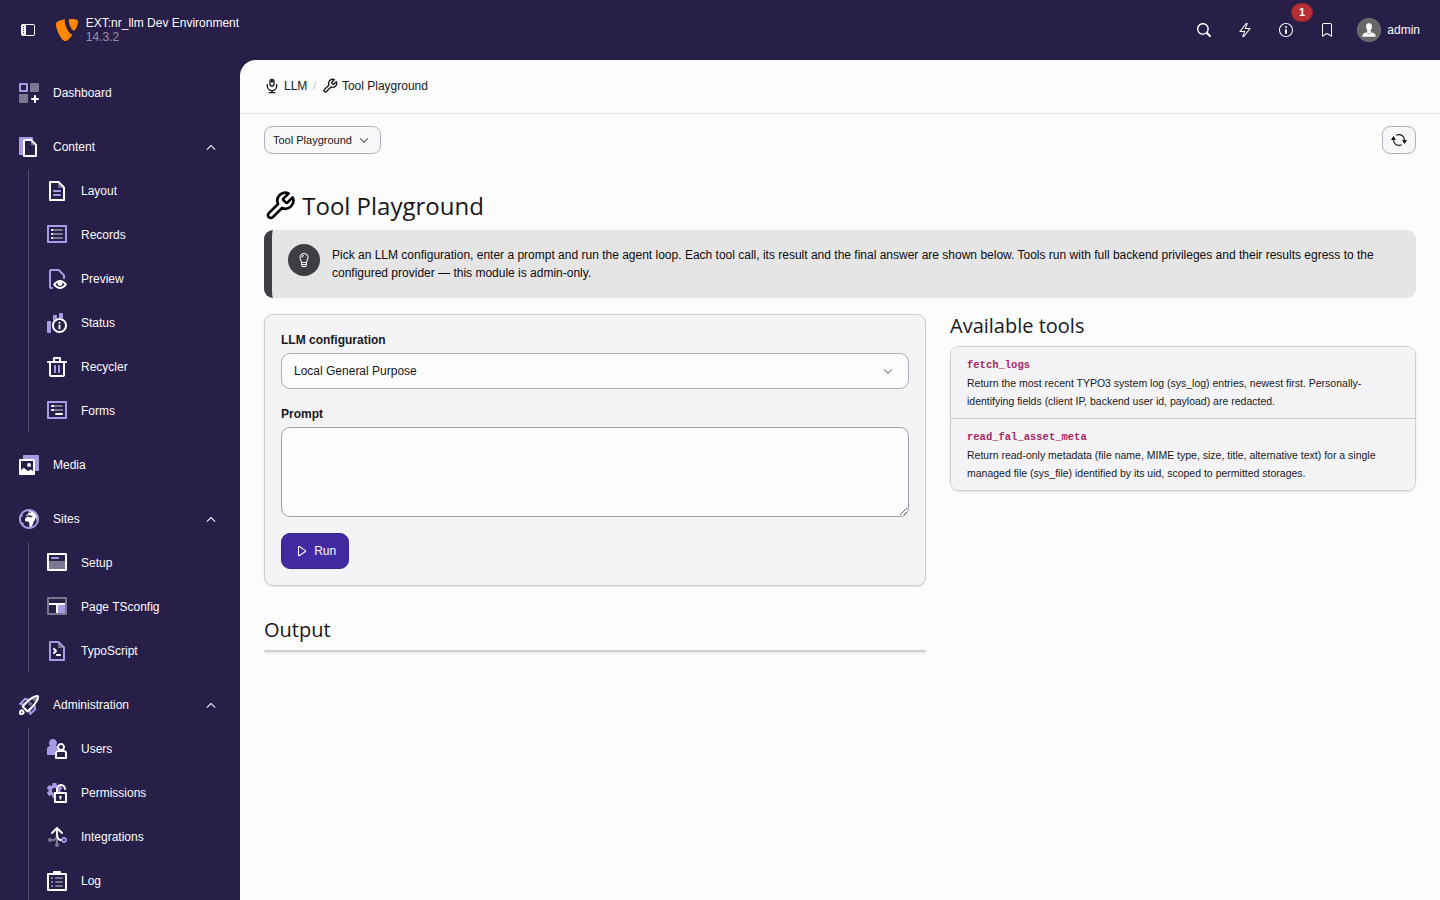
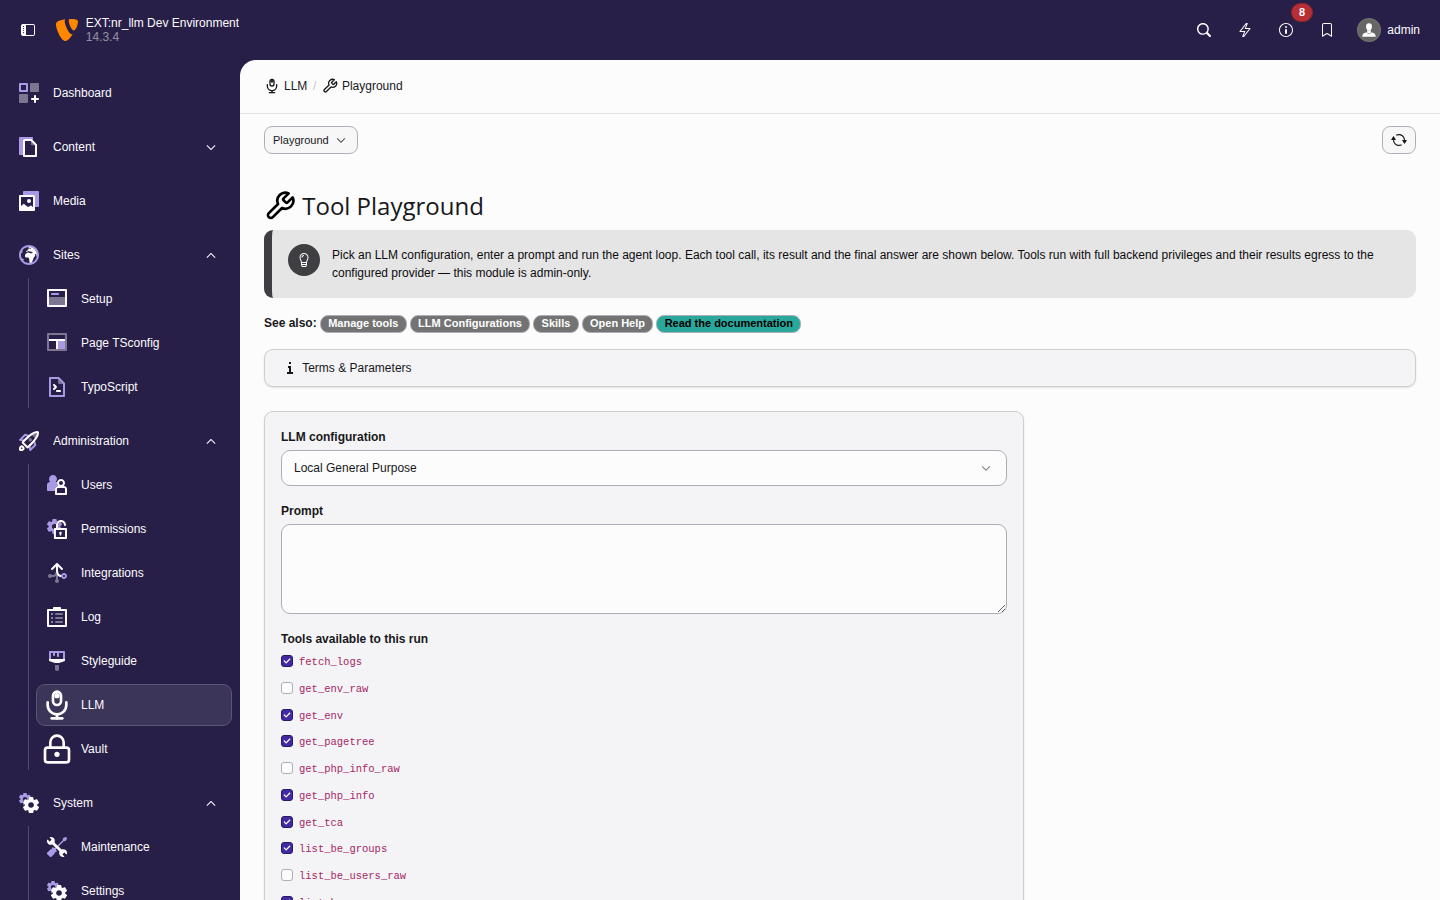
docs(admin): refresh Skills, Tools and Playground guide for v0.14.0
- Correct the LLM module section count (eight → eleven) and list the
  Setup wizard and Analytics sections that were missing.
- Replace the stale 'two example tools' text with the full built-in tool
  catalogue (11 tools; the three unredacted _raw variants ship disabled).
- Document that skill injection is eager and complete — the whole body is
  written into the prompt before the run, not fetched on demand like a tool —
  and note the planned progressive-disclosure direction.
- Add current 1440px screenshots of the Skills and Tools modules; refresh the
  Playground shell and run captures and their captions.

diff --git a/Documentation/Administration/Tools.rst b/Documentation/Administration/Tools.rst
@@ -28,11 +28,17 @@ only because the caller is an authenticated backend administrator.
 
 .. _administration-tools-builtin:
 
-The built-in example tools
-==========================
+The built-in tools
+==================
 
-Two read-only example tools ship enabled. They are reference implementations
-of the security contract, not a general capability:
+nr_llm ships eleven read-only, admin-only introspection tools. Each is a
+reference implementation of the security contract: model-chosen arguments are
+validated and scoped, volumes are capped, and secret-bearing output is either
+redacted or gated behind a separate ``_raw`` variant. Eight ship **enabled**;
+the three unredacted ``_raw`` variants (``get_env_raw``, ``get_php_info_raw``
+and ``list_be_users_raw``) ship **disabled** and must be enabled deliberately.
+
+The two tools below are the fullest illustrations of the contract:
 
 ``fetch_logs``
    Returns the most recent ``sys_log`` entries, newest first, with an
@@ -48,6 +54,33 @@ of the security contract, not a general capability:
    **storage-scoped** (default: the default storage). A uid in a non-permitted
    storage returns the same neutral "not found or not permitted" string as a
    missing uid — the model cannot enumerate arbitrary files.
+
+The remaining tools follow the same pattern:
+
+``get_env`` / ``get_env_raw``
+   Process environment variables. ``get_env`` redacts secret-looking values
+   (password, token, key, secret, salt, DSN, …); ``get_env_raw`` returns them
+   unredacted (database password, encryption key) and ships disabled.
+
+``get_php_info`` / ``get_php_info_raw``
+   PHP runtime configuration. ``get_php_info`` is redacted; ``get_php_info_raw``
+   returns the full, secret-bearing ``phpinfo`` detail and ships disabled.
+
+``get_pagetree``
+   The backend page tree (uid, title, doktype) as a depth-indented outline;
+   deleted and hidden pages are excluded — structure only, no content.
+
+``get_tca``
+   The TYPO3 TCA schema: with no argument it lists the configured table names;
+   with a ``table`` argument it returns that table's field definitions.
+
+``list_be_groups``
+   The backend user groups (uid, title).
+
+``list_be_users`` / ``list_be_users_raw``
+   Backend users. ``list_be_users`` omits credentials (password hashes and MFA
+   secrets are never included); ``list_be_users_raw`` returns the full
+   non-credential profile columns and ships disabled.
 
 .. _administration-tools-register:
 
@@ -91,6 +124,17 @@ tools (for example ``get_env_raw`` and ``get_php_info_raw``) ship **disabled
 by default** because they return unredacted, secret-bearing output; enable
 them only deliberately.
 
+.. figure:: /Images/ToolsModule.png
+   :alt: The Tools management module listing each built-in tool with an
+       Enabled or Disabled badge and an Enable/Disable toggle
+   :class: with-border with-shadow
+   :zoom: lightbox
+
+   The Tools module — each registered tool with its global enable state and a
+   toggle. The ``_raw`` variants show as :guilabel:`Disabled`, the redacted
+   tools as :guilabel:`Enabled`; the :guilabel:`Default` badge marks a tool
+   sitting at its shipped state.
+
 .. _administration-tools-playground:
 
 Using the Tool Playground
@@ -107,9 +151,10 @@ loop, while the Tools module governs *which* tools exist and are enabled.
    :class: with-border with-shadow
    :zoom: lightbox
 
-   The playground shell — the configuration picker and prompt box on the
-   left, the :guilabel:`Available tools` panel listing every registered
-   tool (here ``fetch_logs`` and ``read_fal_asset_meta``) on the right.
+   The playground shell — the configuration picker, prompt box and the
+   :guilabel:`Tools available to this run` panel, which lists every
+   registered tool with the default-enabled ones pre-checked and the
+   disabled ``_raw`` variants unchecked.
 
 1. Pick an **LLM configuration** from the dropdown. Its vault-stored API key,
    model, temperature and system prompt are what the loop actually runs on —
@@ -126,7 +171,7 @@ loop, while the Tools module governs *which* tools exist and are enabled.
    :zoom: lightbox
 
    A completed run — a two-iteration loop in which the model called
-   ``fetch_logs`` (arguments ``{"limit": 20}``); the redacted ``sys_log``
+   ``fetch_logs`` (arguments ``{"limit": "5"}``); the redacted ``sys_log``
    result is fed back and the model's final answer closes the trace.
 
 The :guilabel:`Tools available to this run` list lets you narrow a single run

diff --git a/Documentation/Administration/Skills.rst b/Documentation/Administration/Skills.rst
@@ -115,6 +115,16 @@ prerequisite — nr-llm never silently bypasses the SSRF guard.
 Syncing and the review flow
 ===========================
 
+.. figure:: /Images/SkillsModule.png
+   :alt: The Skills module showing a synced marketplace source and the
+       discovered skills with their support badge and enabled state
+   :class: with-border with-shadow
+   :zoom: lightbox
+
+   The Skills module — the :guilabel:`Sources` table (type, sync status,
+   last synced, per-source actions) above the discovered :guilabel:`Skills`
+   with their ``partial`` / ``full`` support badge and enabled state.
+
 1. On a source, click :guilabel:`Sync`. The source moves through
    ``never_synced`` → ``syncing`` → ``ok`` / ``partial`` / ``error``.
    The ``syncing`` state also acts as a lock: a second concurrent sync on
@@ -171,6 +181,25 @@ operations only — completion, translation and task execution; **never**
 embeddings, vision or speech — nr-llm composes the attached skills into a
 delimited block and prepends it to the *user* prompt. The configuration
 ``system_prompt`` is never modified.
+
+.. note::
+
+   Injection is **eager and complete**, not on demand. The whole skill
+   **body** — the entire ``SKILL.md`` prose after the front-matter, not just
+   the ``name``/``description`` — is written into the prompt *before* the model
+   runs. Unlike a :ref:`tool <administration-tools>`, a skill is **not**
+   something the model calls or fetches when it decides it needs it: there is no
+   runtime round-trip that loads a skill's body, and none that loads its
+   ``references/`` / ``scripts/`` / ``assets/`` (those lines are stripped from
+   ``partial`` skills, and the files are never executed). An attached skill
+   therefore always costs its full body in tokens on every run (subject to the
+   budget below).
+
+   *Planned direction (not in this release):* a progressive-disclosure mode
+   that injects only the ``description`` and lets the model pull the full body
+   or a referenced file on demand — the same shape as the tool runtime.
+   Executing a skill's bundled scripts or assets is a separate, harder step and
+   is not on the near-term roadmap.
 
 Composition rules:
 

diff --git a/Documentation/Administration/Index.rst b/Documentation/Administration/Index.rst
@@ -31,7 +31,7 @@ section, and AI wizard buttons.
    The LLM dashboard with setup progress, wizard
    buttons, and quick-reference PHP snippets.
 
-The module has eight sections accessible from the
+The module has eleven sections accessible from the
 left-hand navigation:
 
 - **Dashboard** — overview and wizards
@@ -40,9 +40,11 @@ left-hand navigation:
 - **Configurations** — use-case presets
 - **Tasks** — one-shot prompt templates
 - **Snippets** — tagged reusable prompt fragments
+- **Setup wizard** — guided provider, model and configuration setup (admin-only)
 - **Skills** — GitHub-hosted ``SKILL.md`` sources (admin-only)
 - **Tools** — enable or disable the agent tools (admin-only)
 - **Playground** — run the agent tool loop interactively (admin-only)
+- **Analytics** — usage and cost dashboard (admin-only)
 
 .. toctree::
    :maxdepth: 2